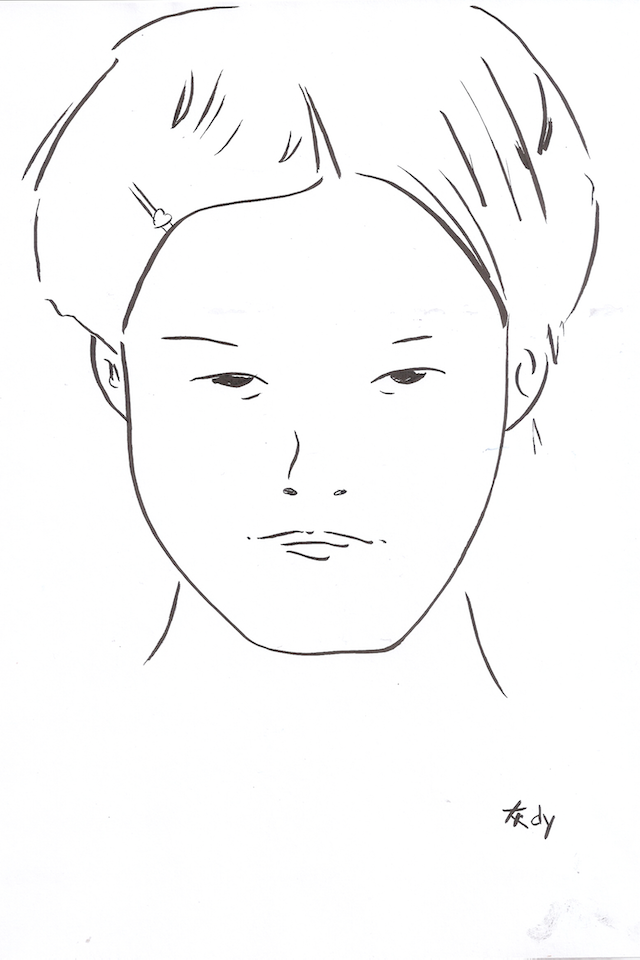
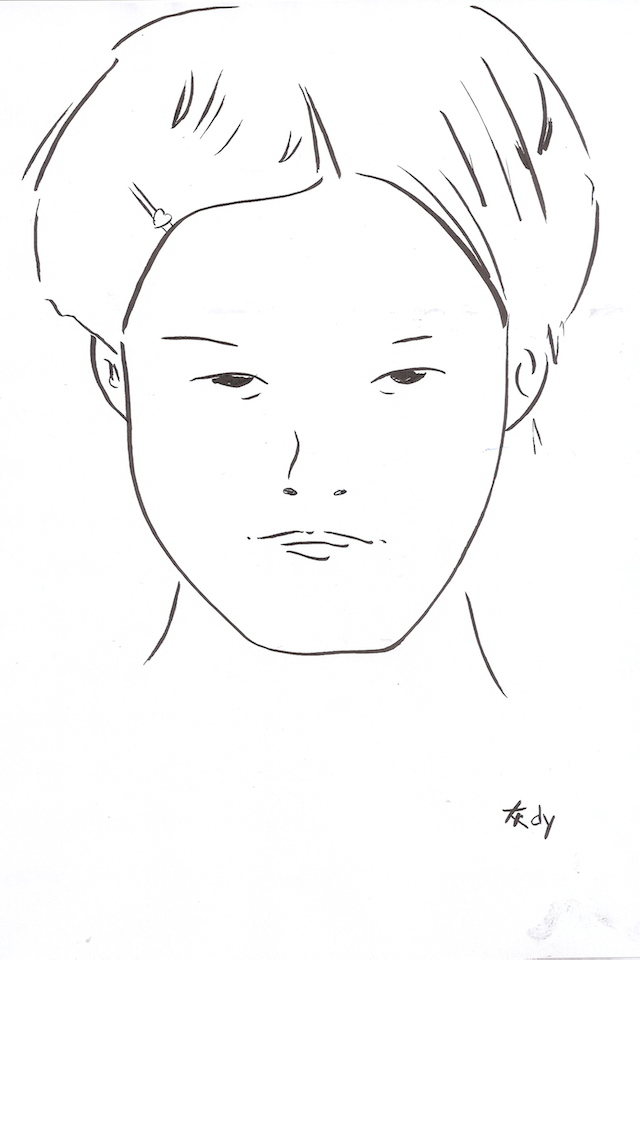
mass update
change image res to compatible to iphone5
change stage size match iphone size
exit app after 5 minis

diff --git a/src/Classes/AppDelegate.m b/src/Classes/AppDelegate.m
@@ -41,6 +41,26 @@ void onUncaughtException(NSException *exception)
     // We need to properly handle activation of the application with regards to Facebook Login
     // (e.g., returning from iOS 6.0 Login Dialog or from fast app switching).
     [FBSession.activeSession handleDidBecomeActive];
+    
+    //killing timer
+    
+    if(currentTimer!=nil)
+    {
+        if([currentTimer isValid]){
+            NSLog(@"kill timer");
+            [currentTimer invalidate];
+            currentTimer = nil;
+        }
+    }
+}
+- (void)applicationDidEnterBackground:(UIApplication *)application
+{
+    NSLog(@"Start Timer");
+    currentTimer = [NSTimer scheduledTimerWithTimeInterval:300 target:self selector:@selector(theActionMethod) userInfo:nil repeats:NO];
+}
+- (void)theActionMethod {
+	NSLog(@"5mins pass exit app");
+    exit(0);
 }
 
 - (BOOL)application:(UIApplication *)application
@@ -51,22 +71,5 @@ void onUncaughtException(NSException *exception)
     return [FBSession.activeSession handleOpenURL:url];
 }
 
-- (NSUInteger)application:(UIApplication*)application supportedInterfaceOrientationsForWindow:(UIWindow*)window
-{
-    NSArray *supportedOrientations =
-    [[[NSBundle mainBundle] infoDictionary] objectForKey:@"UISupportedInterfaceOrientations"];
-    
-    NSUInteger returnOrientations;
-    if ([supportedOrientations containsObject:@"UIInterfaceOrientationPortrait"])
-        returnOrientations |= UIInterfaceOrientationMaskPortrait;
-    if ([supportedOrientations containsObject:@"UIInterfaceOrientationLandscapeLeft"])
-        returnOrientations |= UIInterfaceOrientationMaskLandscapeLeft;
-    if ([supportedOrientations containsObject:@"UIInterfaceOrientationPortraitUpsideDown"])
-        returnOrientations |= UIInterfaceOrientationMaskPortraitUpsideDown;
-    if ([supportedOrientations containsObject:@"UIInterfaceOrientationLandscapeRight"])
-        returnOrientations |= UIInterfaceOrientationMaskLandscapeRight;
-    
-    return returnOrientations;
-}
 
 @end

diff --git a/src/Classes/Game.m b/src/Classes/Game.m
@@ -59,6 +59,7 @@
 
 - (void)setup
 {
+    NSLog(@"width = %f height = %f",Sparrow.stage.width,Sparrow.stage.height);
     // This is where the code of your game will start.
     // In this sample, we add just a few simple elements to get a feeling about how it's done.
     
@@ -138,13 +139,13 @@
 
 - (void)updateLocations
 {
-    int gameWidth  = Sparrow.stage.width;
-    int gameHeight = Sparrow.stage.height;
-    
-    _contents.x = (int) (gameWidth  - _contents.width)  / 2;
-    _contents.y = (int) (gameHeight - _contents.height) / 2;
-    _menu.x = (int) (gameWidth  - _contents.width)  / 2;
-    _menu.y = (int) (gameHeight - _contents.height) / 2;
+//    int gameWidth  = Sparrow.stage.width;
+//    int gameHeight = Sparrow.stage.height;
+//    
+//    _contents.x = (int) (gameWidth  - _contents.width)  / 2;
+//    _contents.y = (int) (gameHeight - _contents.height) / 2;
+//    _menu.x = (int) (gameWidth  - _contents.width)  / 2;
+//    _menu.y = (int) (gameHeight - _contents.height) / 2;
 }
 
 - (void)onImageTouched:(SPTouchEvent *)event

diff --git a/src/Classes/Scenes/GameCore.m b/src/Classes/Scenes/GameCore.m
@@ -179,7 +179,8 @@
     textFieldContainer.x = 0;
     textFieldContainer.y = 0;
     SPImage *textFieldBkgImage = [SPImage imageWithContentsOfFile:@"textfieldBackground.png"];
-    
+    textFieldBkgImage.width = Sparrow.stage.width;
+    textFieldBkgImage.height = Sparrow.stage.height;
     [textFieldContainer addChild:textFieldBkgImage];
     
     SPTextField *TF = [SPTextField textFieldWithWidth:textFieldContainer.width height:30 text:NSLocalizedString(KEY_EXPLAIN, nil)];

diff --git a/src/Classes/AppDelegate.h b/src/Classes/AppDelegate.h
@@ -6,5 +6,7 @@
 #import <UIKit/UIKit.h>
 
 @interface AppDelegate : UIResponder <UIApplicationDelegate>
-
+{
+    NSTimer *currentTimer;
+}
 @end
